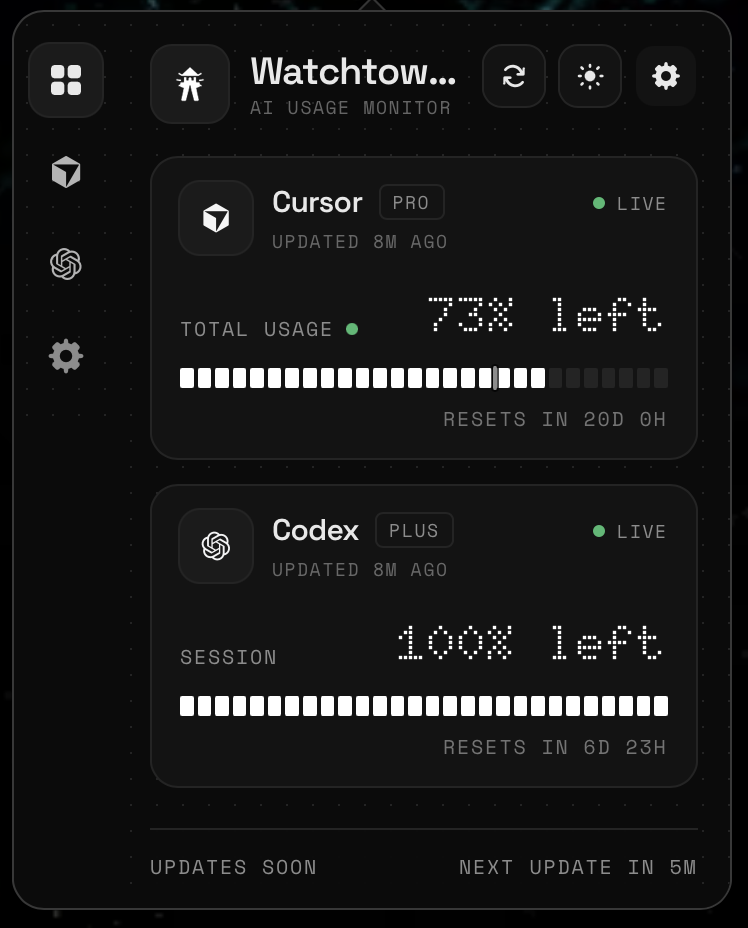
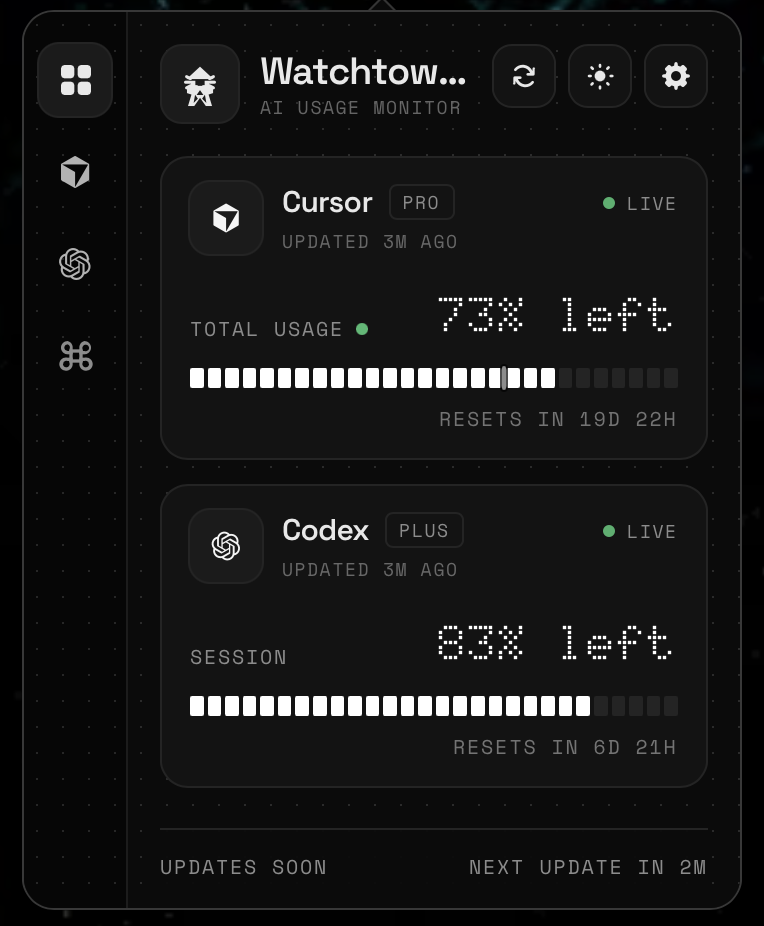
[Docs] Add centered Watchtower screenshot to README

diff --git a/README.md b/README.md
@@ -2,7 +2,9 @@
 
 Opinionated OpenUsage for Codex, Cursor, Claude, OpenCode and Gemini.
 
-![Watchtower AI usage monitor](./screenshot.png)
+<p align="center">
+  <img src="./screenshot.png" alt="Watchtower AI usage monitor" />
+</p>
 
 ## Install
 
